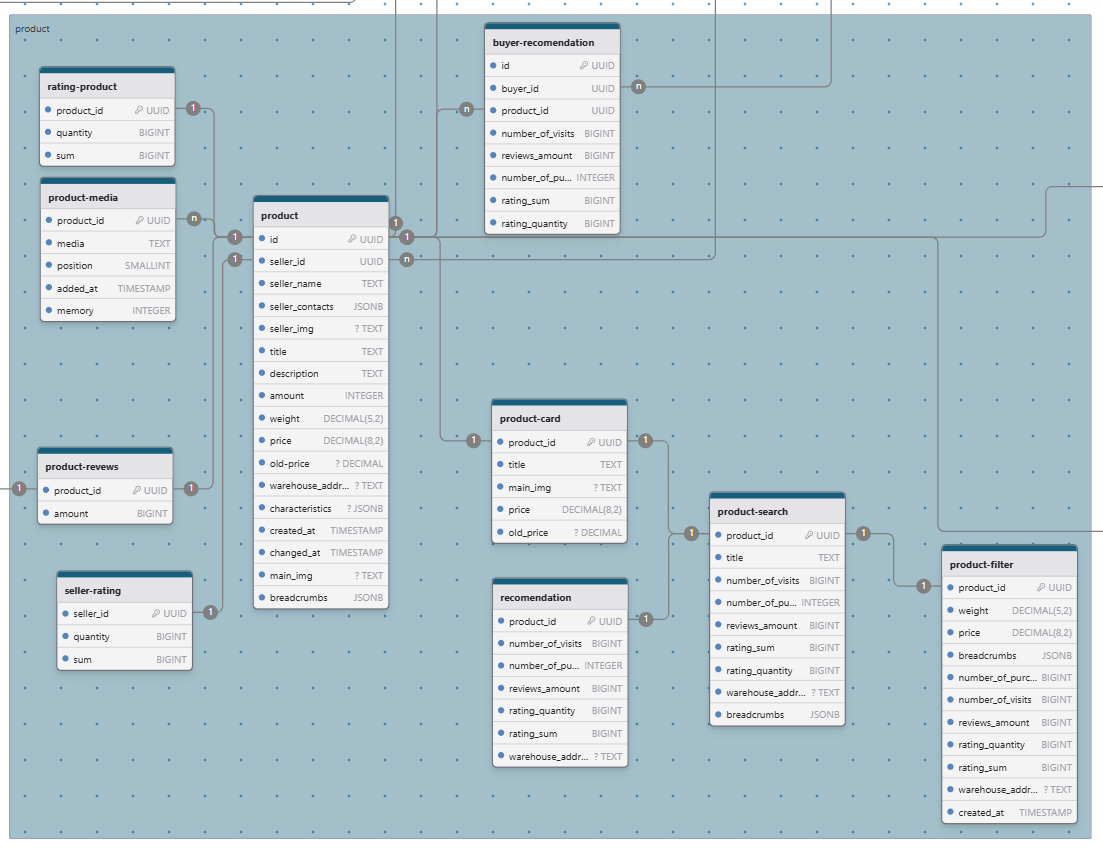
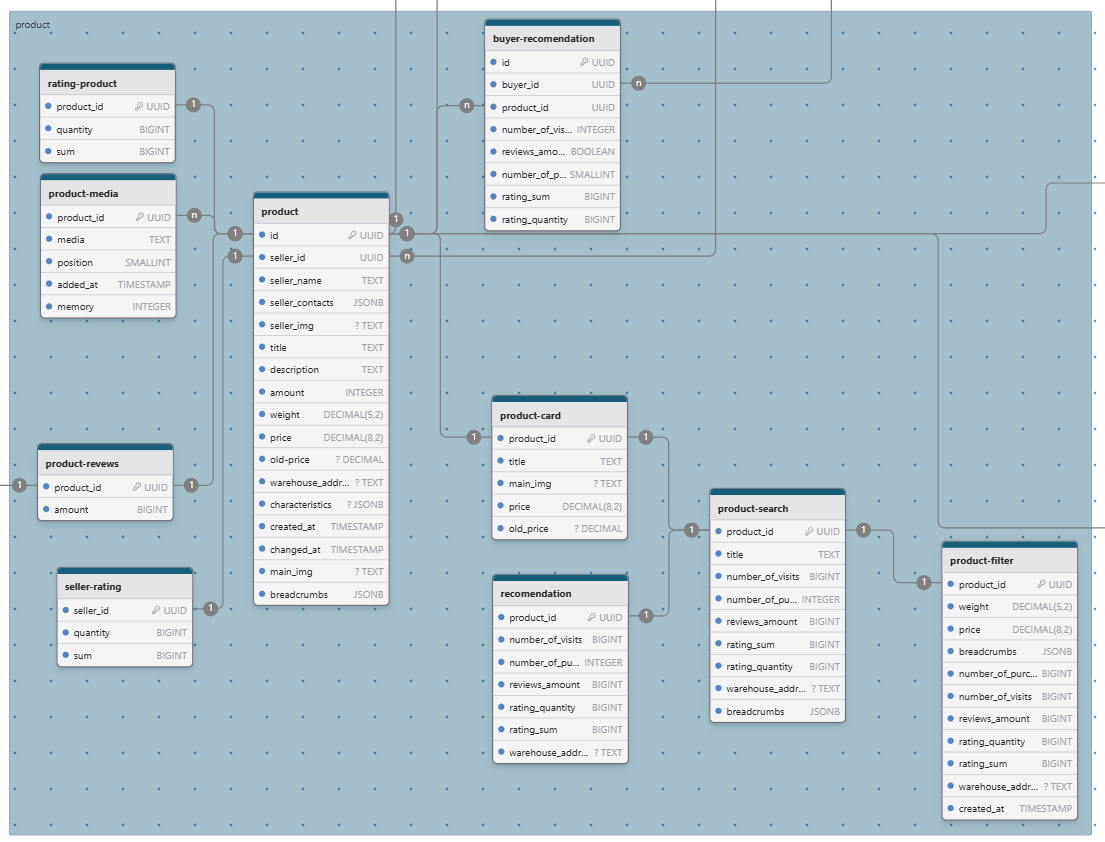
[fix] Логическая схема БД (рекомендации (типы))

diff --git a/README.md b/README.md
@@ -779,7 +779,7 @@ Anycast позволяет оптимизировать маршрутизаци
 
 ## 5. Логическая схема БД <a name="логическая-схема-бд"></a>
 
-Полную версию схемы бд можно посмотреть по ссылке [https://www.drawdb.app/editor?shareId=3f7cd5823bde8e7836350d79c69058c4](https://www.drawdb.app/editor?shareId=3f7cd5823bde8e7836350d79c69058c4)
+Полную версию схемы бд можно посмотреть по ссылке [https://www.drawdb.app/editor?shareId=37cb3d4e14b15d4be1f2e7d0b1e288dc](https://www.drawdb.app/editor?shareId=37cb3d4e14b15d4be1f2e7d0b1e288dc)
 
 Либо на изображении и приближенных фрагментах, указанных ниже:
 
